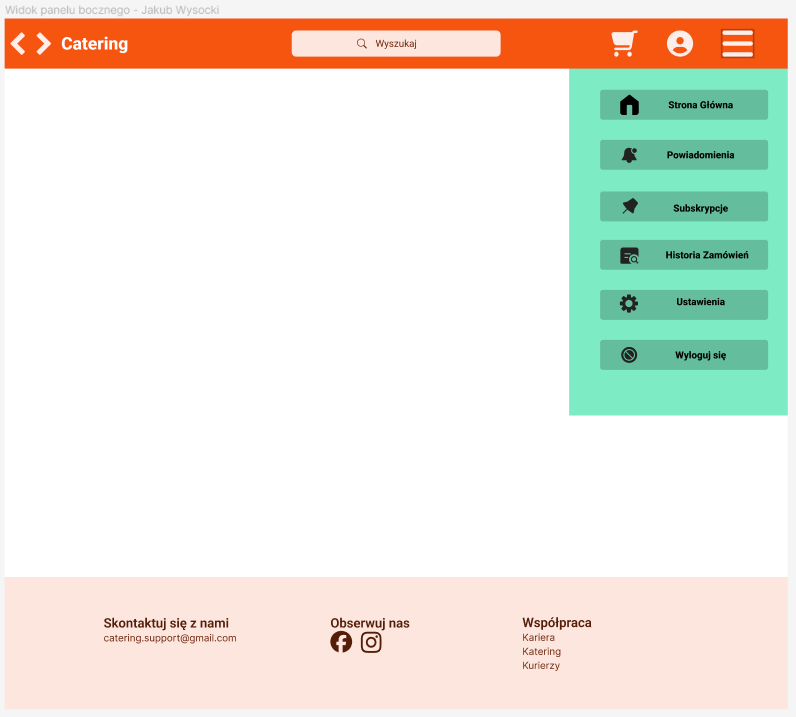
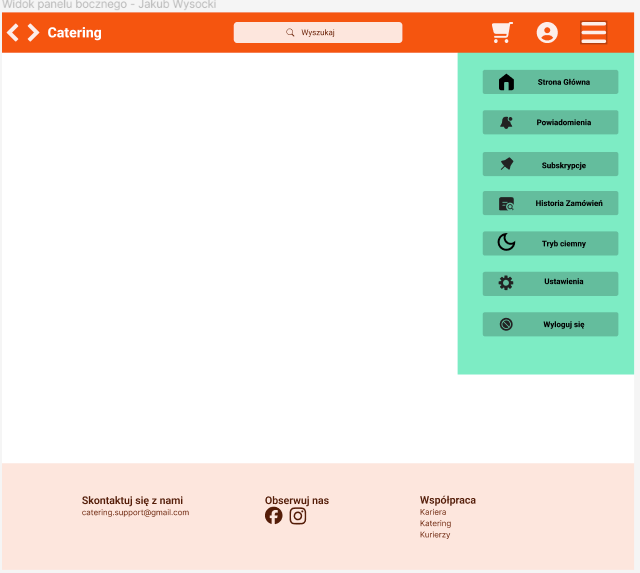
Adding GUI work report

diff --git a/Lab4/Raport z pracy nad GUI.md b/Lab4/Raport z pracy nad GUI.md
@@ -1,0 +1,16 @@
+# Raport GUI
+*Wykonał Szymon Rogoziński*
+
+Projekt interfejsu graficznego zachowuję spójność, a poprawki zgłoszone przez klienta zostały wprowadzone.
+
+Prawie wszystkie widoki i panele opisane w dokumentacji zostały zaprojektowane. Brakuję widoku do przeglądania postów, widoku zamawiania potraw i wybierania daty dostawy, widoku anulowania zamówienia, widoku subskrypcji od strony usługodawcy, widoku trybu ciemnego oraz widoku dodawania karty kredytowej.
+
+Opóżnienia te mogą nieznacznie przedłużyć pracę, ale nie powinny one znacznie przeszkodzić projektowi w fazie analizy i projektu.
+
+Zaczęto pracę nad prototypem działającego interfejsu, opisano scenariusze przebiegu interakcji z użytkownikiem dla trzech zadań. Posłużyły one do utworzenia pełnoprawnych prototypów w Figmie.
+
+## Uwagi
+
+- Widoki zostały wpisane w okno aplikacji typu PWA. Miało to na celu ujednolicić widoki oraz ułatwić ocenę przestrzeni widocznej dla użytkownika.
+- Niektóre z widoków oferują opcję przewijania, jednak nie zostało to oznaczone w wyraźny sposób. Widoki te to: Panel wyszukiwania i panel postów usługodawcy.
+- Wyjątkiem jest widok statystyk, który został rozszerzony, aby pokazać wszystkie komponenty. W kolejnym sprint'cie zostanie dodany widok przycięty, który zostanie zaimplementowany (dostęp do niewidocznych komponentów, będzie poprzez przewijanie strony).
